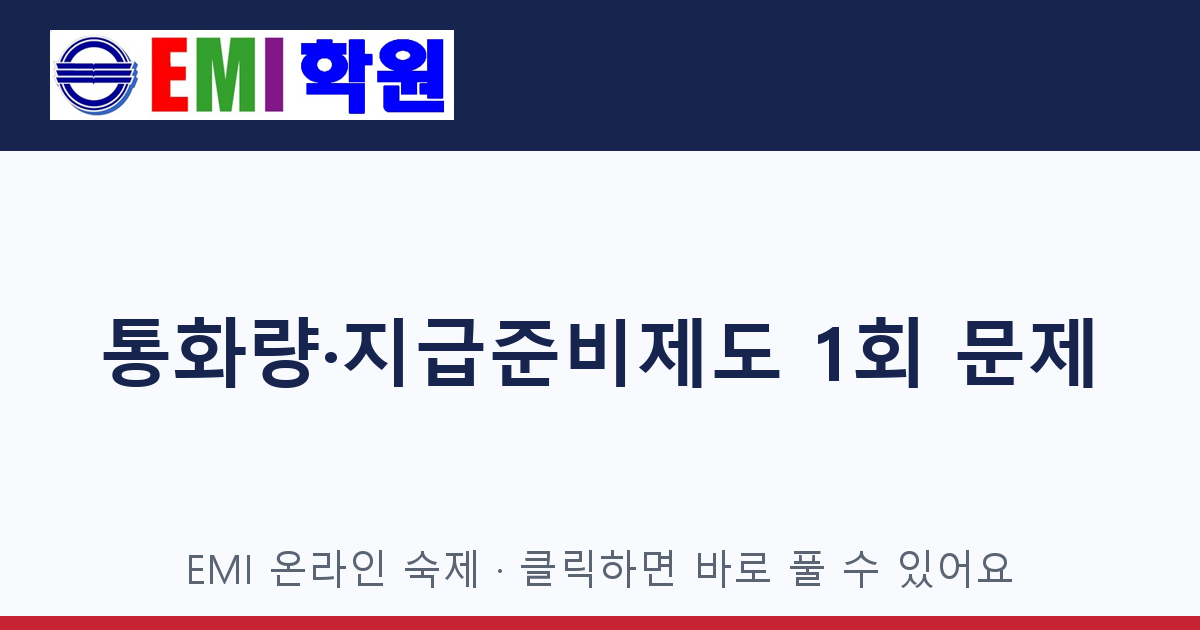
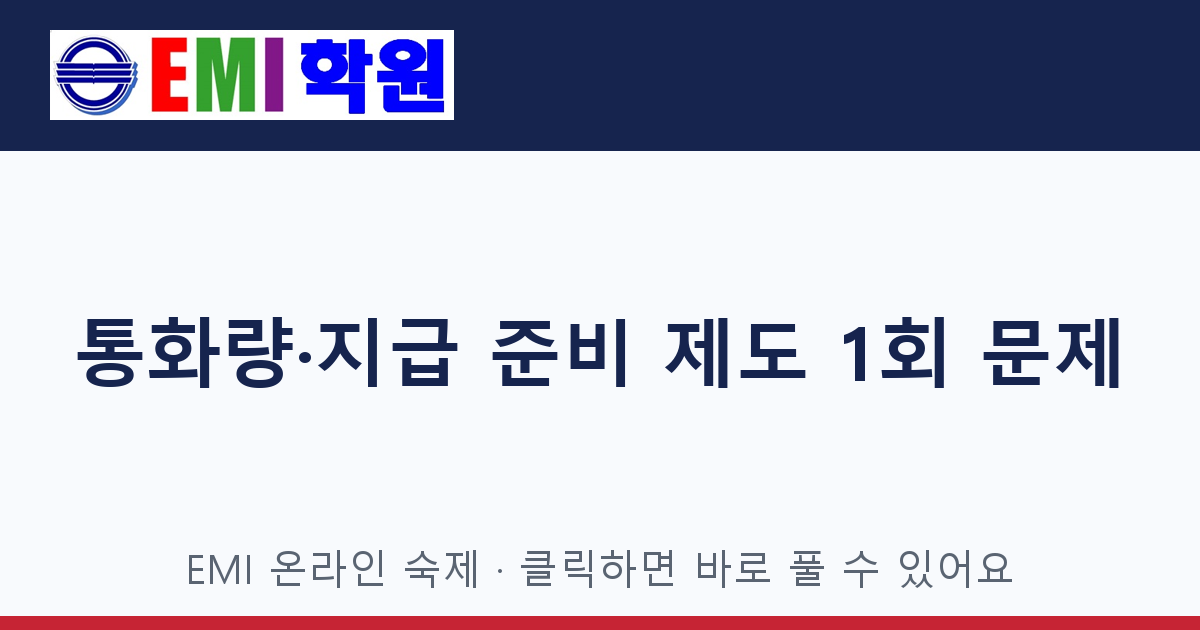
cards: tong1

Changed region(s): [[0.5242, 0.4825, 0.9558, 0.6333], [0.0617, 0.4825, 0.4008, 0.6333]]

diff --git a/tong1.html b/tong1.html
@@ -1,20 +1,20 @@
 <!doctype html><html lang="ko"><head><meta charset="utf-8">
 <meta name="viewport" content="width=device-width, initial-scale=1">
-<title>통화량·지급준비제도 1회 숙제</title>
+<title>통화량·지급 준비 제도 1회 숙제 (변형 1~10번)</title>
 <meta name="description" content="EMI 온라인 숙제 · 클릭하면 바로 풀 수 있어요 (제출 결과는 선생님에게 전송됩니다)">
 <meta property="og:type" content="website">
-<meta property="og:title" content="통화량·지급준비제도 1회 숙제">
+<meta property="og:title" content="통화량·지급 준비 제도 1회 숙제 (변형 1~10번)">
 <meta property="og:description" content="EMI 온라인 숙제 · 클릭하면 바로 풀 수 있어요 (제출 결과는 선생님에게 전송됩니다)">
 <meta property="og:image" content="https://yanga1052-del.github.io/emi-hw-preview/img/tong1.png">
 <meta property="og:url" content="https://yanga1052-del.github.io/emi-hw-preview/tong1.html">
 <meta name="twitter:card" content="summary_large_image">
-<meta name="twitter:title" content="통화량·지급준비제도 1회 숙제">
+<meta name="twitter:title" content="통화량·지급 준비 제도 1회 숙제 (변형 1~10번)">
 <meta name="twitter:description" content="EMI 온라인 숙제 · 클릭하면 바로 풀 수 있어요 (제출 결과는 선생님에게 전송됩니다)">
 <meta name="twitter:image" content="https://yanga1052-del.github.io/emi-hw-preview/img/tong1.png">
 <meta http-equiv="refresh" content="0; url=https://script.google.com/macros/s/AKfycbyF3ateTjzvvQgbUPQ1zHatpe2qTKi0NUpeD05WZu_OVzvtxLwxgMTxlddT3Mv3tvPU/exec?hw=tong1">
 <style>body{font-family:'Malgun Gothic',sans-serif;background:#f6f8fb;color:#1a2432;display:flex;min-height:100vh;align-items:center;justify-content:center;margin:0}
 .card{background:#fff;border-radius:16px;box-shadow:0 8px 30px rgba(20,30,70,.12);padding:40px 44px;text-align:center;max-width:460px}
 h1{color:#16244e;font-size:22px;margin:.2em 0 .6em} p{color:#5a6472} a{display:inline-block;margin-top:18px;background:#16244e;color:#fff;text-decoration:none;padding:13px 26px;border-radius:10px;font-weight:bold}</style>
-</head><body><div class="card"><h1>통화량·지급준비제도 1회 숙제</h1><p>잠시 후 숙제 페이지로 이동합니다.<br>이동하지 않으면 아래 버튼을 눌러 주세요.</p>
+</head><body><div class="card"><h1>통화량·지급 준비 제도 1회 숙제 (변형 1~10번)</h1><p>잠시 후 숙제 페이지로 이동합니다.<br>이동하지 않으면 아래 버튼을 눌러 주세요.</p>
 <a href="https://script.google.com/macros/s/AKfycbyF3ateTjzvvQgbUPQ1zHatpe2qTKi0NUpeD05WZu_OVzvtxLwxgMTxlddT3Mv3tvPU/exec?hw=tong1">숙제 풀러 가기 →</a></div>
 <script>location.replace("https://script.google.com/macros/s/AKfycbyF3ateTjzvvQgbUPQ1zHatpe2qTKi0NUpeD05WZu_OVzvtxLwxgMTxlddT3Mv3tvPU/exec?hw=tong1");</script></body></html>

diff --git a/index.html b/index.html
@@ -17,7 +17,7 @@
 <li><a href="imdae1.html">임대차보호법 1회 숙제</a></li>
 <li><a href="imdae2.html">임대차보호법 2회 숙제</a></li>
 <li><a href="imdae3.html">임대차보호법 3회 숙제</a></li>
-<li><a href="tong1.html">통화량·지급준비제도 1회 숙제</a></li>
+<li><a href="tong1.html">통화량·지급 준비 제도 1회 숙제 (변형 1~10번)</a></li>
 <li><a href="tong2.html">통화량·지급준비제도 2회 숙제</a></li>
 <li><a href="tong3.html">통화량·지급준비제도 3회 숙제</a></li>
 <li><a href="suso3.html">수소 전기차 3회 숙제</a></li>
